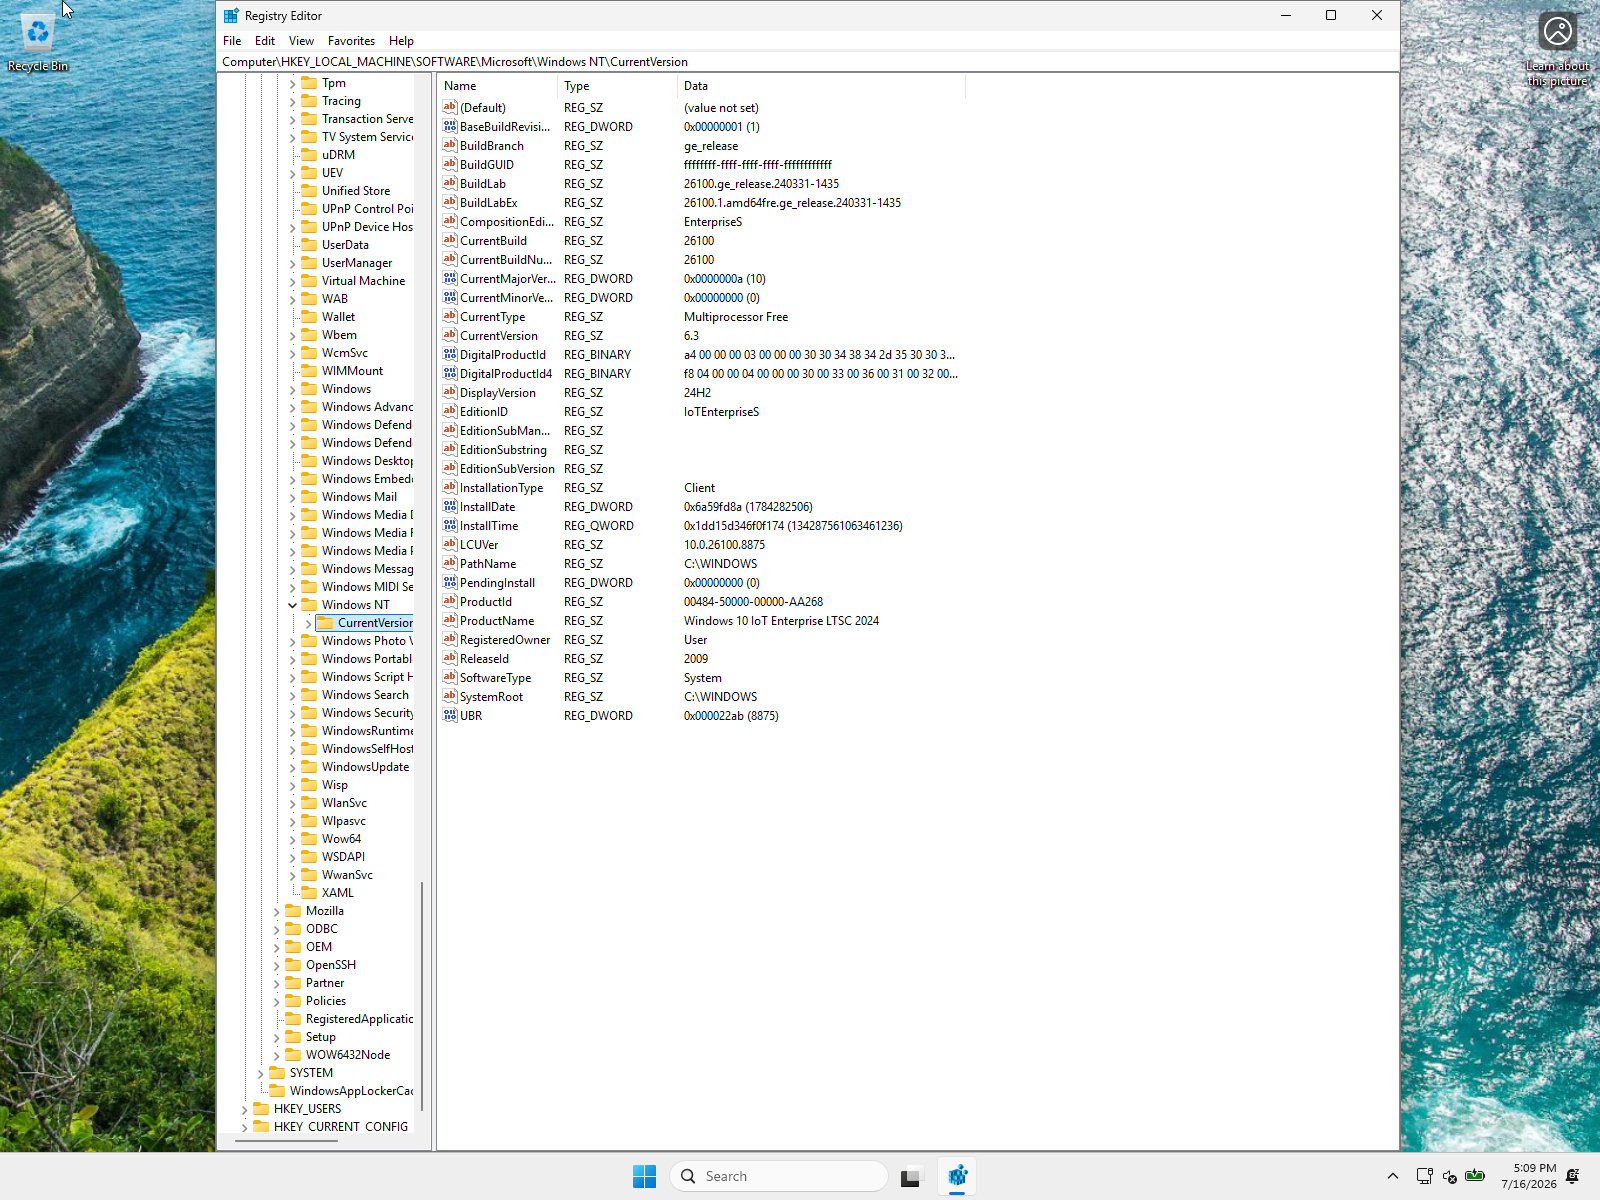
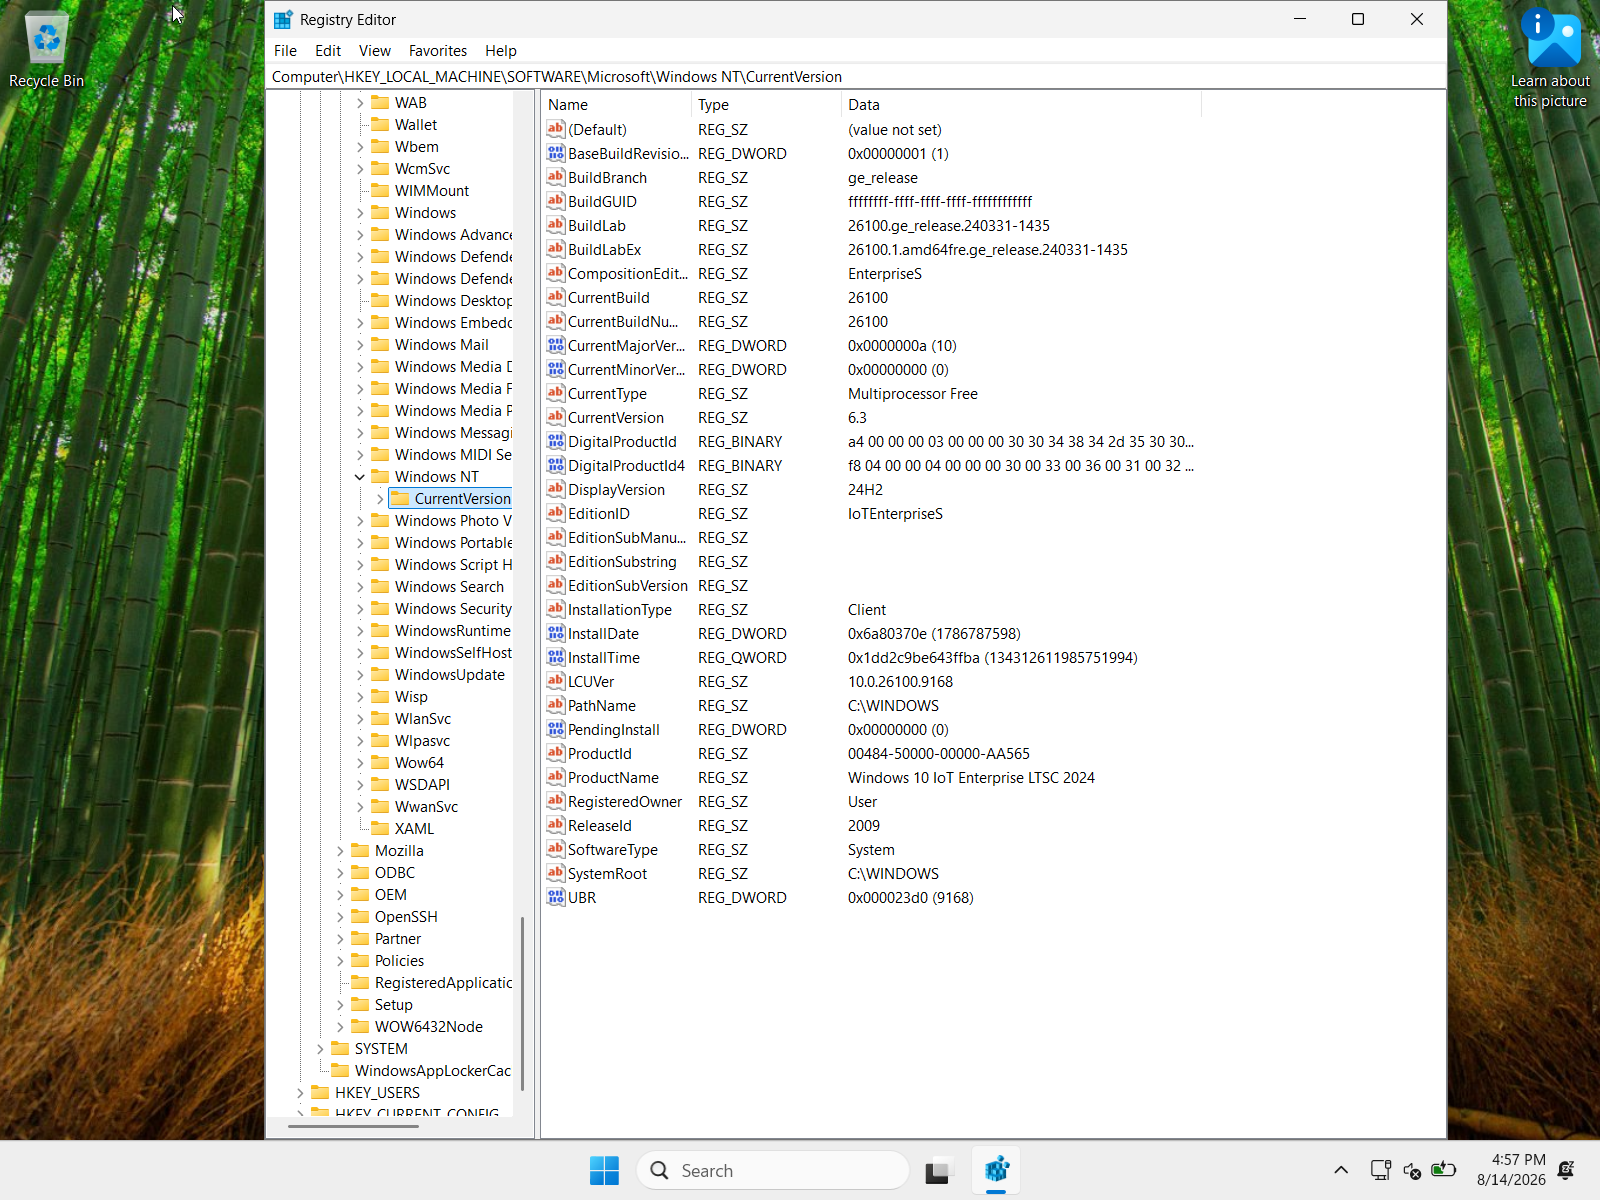
update

diff --git a/windows-11-en/index.html b/windows-11-en/index.html
@@ -53,7 +53,7 @@
             <div class="card-text"><a href="/" class="return-link"><span class="lang-en"><b>Return to Home</b></span><span class="lang-ru"><b>Вернуться на главную</b></span></a></div>
             <div class="card-text"><span class="lang-en">Language: English</span><span class="lang-ru">Язык: Английский</span></div>
             <div class="card-text"><span class="lang-en">Windows 11 IoT Enterprise LTSC (Long-Term Servicing Channel) is a lightweight version of Windows with long-term support, designed for stable performance on embedded devices and specialized systems. It excludes unnecessary apps, reducing system requirements and making it an ideal solution where reliability and minimal interference are critical.</span><span class="lang-ru">Windows 11 IoT Enterprise LTSC (Long-Term Servicing Channel) — это облегченная версия Windows с долгосрочной поддержкой, разработанная для стабильной работы на встраиваемых устройствах и специализированных системах. Она исключает ненужные приложения, снижая системные требования и делая ее идеальным решением там, где критически важны надежность и минимальное вмешательство.</span></div>
-            <div class="updated"><span class="lang-en"><b>TPM, Secure Boot, and OOBE checks are disabled,<br>Updated to 26100.8875 (July 2026) by somov</b></span><span class="lang-ru"><b>Проверки TPM, Secure Boot и OOBE отключены,<br>Обновлено до 26100.8875 (Июль 2026) by somov</b></span></div>
+            <div class="updated"><span class="lang-en"><b>TPM, Secure Boot, and OOBE checks are disabled,<br>Updated to 26100.9168 (August 2026) by somov</b></span><span class="lang-ru"><b>Проверки TPM, Secure Boot и OOBE отключены,<br>Обновлено до 26100.9168 (Август 2026) by somov</b></span></div>
             <div class="card-text"><span class="lang-en"><b>System Requirements:</b></span><span class="lang-ru"><b>Системные требования:</b></span></div>
             <div class="card-text">
               <ol class="marker-list">
@@ -66,13 +66,13 @@
             </div>
             <div class="card-text"><span class="lang-en"><b>Image checksums:</b></span><span class="lang-ru"><b>Контрольные суммы образа:</b></span></div>
             <div class="card-text">
-              <ol class="marker-list"><li><b>CRC32:</b> a35d9cfe</li>
-              <li><b>MD5:</b> 35c11701ae34564a457d077310b57b76</li>
-              <li><b>SHA-1:</b> 24098dfb4590ac0b3800664f4a924d3fd08d37e7</li>
+              <ol class="marker-list"><li><b>CRC32:</b> 24335d4b</li>
+              <li><b>MD5:</b> c9b5e8de855205c1d716c58c3cc9537a</li>
+              <li><b>SHA-1:</b> 691c9d86bfae4d7787c97906eff9a5188c0b9f07</li>
             </ol></div>
             <div class="button-container">
-            <a class="btn-windows" href="https://dl3.somov.org/en-us_windows_11_iot_enterprise_ltsc_2024_x64_26100.8875_by_somov.iso"><span class="lang-en">Download</span><span class="lang-ru">Скачать</span></a>
-            <a class="torrent-link" href="https://dl3.somov.org/en-us_windows_11_iot_enterprise_ltsc_2024_x64_26100.8875_by_somov.iso.torrent"><span class="lang-en">Download by torrent</span><span class="lang-ru">Скачать с помощью torrent</span></a>
+            <a class="btn-windows" href="https://dl3.somov.org/en-us_windows_11_iot_enterprise_ltsc_2024_x64_26100.9168_by_somov.iso"><span class="lang-en">Download</span><span class="lang-ru">Скачать</span></a>
+            <a class="torrent-link" href="https://dl3.somov.org/en-us_windows_11_iot_enterprise_ltsc_2024_x64_26100.9168_by_somov.iso.torrent"><span class="lang-en">Download by torrent</span><span class="lang-ru">Скачать с помощью torrent</span></a>
             </div>
   <div class="full-width-section">
     <div class="gallery">

diff --git a/windows-11-ru/index.html b/windows-11-ru/index.html
@@ -53,7 +53,7 @@
             <div class="card-text"><a href="/" class="return-link"><span class="lang-en"><b>Return to Home</b></span><span class="lang-ru"><b>На главную</b></span></a></div>
             <div class="card-text"><span class="lang-en">Language: Russian</span><span class="lang-ru">Язык: Русский</span></div>
             <div class="card-text"><span class="lang-en">Windows 11 IoT Enterprise LTSC (Long-Term Servicing Channel) is a lightweight version of Windows with long-term support, designed for stable performance on embedded devices and specialized systems. It excludes unnecessary apps, reducing system requirements and making it an ideal solution where reliability and minimal interference are critical.</span><span class="lang-ru">Windows 11 IoT Enterprise LTSC (Long-Term Servicing Channel) — это облегчённая версия Windows с долгосрочной поддержкой, разработанная для стабильной работы на встраиваемых устройствах и специализированных системах. Она лишена лишних приложений, что снижает системные требования и делает её идеальным решением, где важны надёжность и минимальное вмешательство.</span></div>
-            <div class="updated"><span class="lang-en"><b>TPM, Secure Boot, and OOBE checks are disabled,<br>Updated to 26100.8875 (July 2026) by somov</b></span><span class="lang-ru"><b>Проверки TPM, Secure Boot и OOBE отключены,<br>Обновлено до 26100.8875 (Июль 2026) by somov</b></span></div>
+            <div class="updated"><span class="lang-en"><b>TPM, Secure Boot, and OOBE checks are disabled,<br>Updated to 26100.9168 (August 2026) by somov</b></span><span class="lang-ru"><b>Проверки TPM, Secure Boot и OOBE отключены,<br>Обновлено до 26100.9168 (Август 2026) by somov</b></span></div>
             <div class="card-text"><span class="lang-en"><b>System Requirements:</b></span><span class="lang-ru"><b>Системные требования:</b></span></div>
             <div class="card-text">
               <ol class="marker-list">
@@ -66,13 +66,13 @@
             </div>
             <div class="card-text"><span class="lang-en"><b>Image checksums:</b></span><span class="lang-ru"><b>Контрольные суммы:</b></span></div>
             <div class="card-text">
-              <ol class="marker-list"><li><b>CRC32:</b> bbba3103</li>
-              <li><b>MD5:</b> e1557092e3f13822065e037aedc8df97</li>
-              <li><b>SHA-1:</b> baa398c30409596653a59ac144f88405b6879706</li>
+              <ol class="marker-list"><li><b>CRC32:</b> 1c66a2d8</li>
+              <li><b>MD5:</b> c7e1d6f4813e808efa3c6971ce0d1111</li>
+              <li><b>SHA-1:</b> a452f6b394cdcc06074b83221ec887b4580db651</li>
             </ol></div>
             <div class="button-container">
-            <a class="btn-windows" href="https://dl3.somov.org/ru-ru_windows_11_iot_enterprise_ltsc_2024_x64_26100.8875_by_somov.iso"><span class="lang-en">Download</span><span class="lang-ru">Скачать</span></a>
-            <a class="torrent-link" href="https://dl3.somov.org/ru-ru_windows_11_iot_enterprise_ltsc_2024_x64_26100.8875_by_somov.iso.torrent"><span class="lang-en">Download by torrent</span><span class="lang-ru">Скачать с помощью torrent</span></a>
+            <a class="btn-windows" href="https://dl3.somov.org/ru-ru_windows_11_iot_enterprise_ltsc_2024_x64_26100.9168_by_somov.iso"><span class="lang-en">Download</span><span class="lang-ru">Скачать</span></a>
+            <a class="torrent-link" href="https://dl3.somov.org/ru-ru_windows_11_iot_enterprise_ltsc_2024_x64_26100.9168_by_somov.iso.torrent"><span class="lang-en">Download by torrent</span><span class="lang-ru">Скачать с помощью torrent</span></a>
             </div>
   <div class="full-width-section">
     <div class="gallery">

diff --git a/index.html b/index.html
@@ -66,7 +66,7 @@
             </a>
             <div class="card-details">
               <span class="lang-en">Language: English<br></span><span class="lang-ru">Язык: Английский<br></span>
-              <span class="lang-en">Update: 26100.8875 (July 2026)<br></span><span class="lang-ru">Обновление: 26100.8875 (Июль 2026)<br></span>
+              <span class="lang-en">Update: 26100.9168 (August 2026)<br></span><span class="lang-ru">Обновление: 26100.9168 (Август 2026)<br></span>
               <span class="lang-en">Edition: IoT Enterprise LTSC<br></span><span class="lang-ru">Издание: IoT Enterprise LTSC<br></span>
               <span class="lang-en">Version: 24H2<br></span><span class="lang-ru">Версия: 24H2<br></span>
               <span class="lang-en">Author: somov<br></span><span class="lang-ru">Автор: somov<br></span>
@@ -79,8 +79,8 @@
         </div>
         <div class="card-right">
           <div class="card-actions">
-            <a class="btn" href="https://dl3.somov.org/en-us_windows_11_iot_enterprise_ltsc_2024_x64_26100.8875_by_somov.iso"><span class="lang-en">Download</span><span class="lang-ru">Скачать</span></a>
-            <a class="torrent-link" href="https://dl3.somov.org/en-us_windows_11_iot_enterprise_ltsc_2024_x64_26100.8875_by_somov.iso.torrent"><span class="lang-en">Download by torrent</span><span class="lang-ru">Скачать с помощью torrent</span></a>
+            <a class="btn" href="https://dl3.somov.org/en-us_windows_11_iot_enterprise_ltsc_2024_x64_26100.9168_by_somov.iso"><span class="lang-en">Download</span><span class="lang-ru">Скачать</span></a>
+            <a class="torrent-link" href="https://dl3.somov.org/en-us_windows_11_iot_enterprise_ltsc_2024_x64_26100.9168_by_somov.iso.torrent"><span class="lang-en">Download by torrent</span><span class="lang-ru">Скачать с помощью torrent</span></a>
           </div>
         </div>
       </section>
@@ -133,7 +133,7 @@
             </a>
             <div class="card-details">
               <span class="lang-en">Language: Russian<br></span><span class="lang-ru">Язык: Русский<br></span>
-              <span class="lang-en">Update: 26100.8875 (July 2026)<br></span><span class="lang-ru">Обновление: 26100.8875 (Июль 2026)<br></span>
+              <span class="lang-en">Update: 26100.9168 (August 2026)<br></span><span class="lang-ru">Обновление: 26100.9168 (Август 2026)<br></span>
               <span class="lang-en">Edition: IoT Enterprise LTSC<br></span><span class="lang-ru">Издание: IoT Enterprise LTSC<br></span>
               <span class="lang-en">Version: 24H2<br></span><span class="lang-ru">Версия: 24H2<br></span>
               <span class="lang-en">Author: somov<br></span><span class="lang-ru">Автор: somov<br></span>
@@ -146,8 +146,8 @@
         </div>
         <div class="card-right">
           <div class="card-actions">
-            <a class="btn" href="https://dl3.somov.org/ru-ru_windows_11_iot_enterprise_ltsc_2024_x64_26100.8875_by_somov.iso"><span class="lang-en">Download</span><span class="lang-ru">Скачать</span></a>
-            <a class="torrent-link" href="https://dl3.somov.org/ru-ru_windows_11_iot_enterprise_ltsc_2024_x64_26100.8875_by_somov.iso.torrent"><span class="lang-en">Download by torrent</span><span class="lang-ru">Скачать с помощью torrent</span></a>
+            <a class="btn" href="https://dl3.somov.org/ru-ru_windows_11_iot_enterprise_ltsc_2024_x64_26100.9168_by_somov.iso"><span class="lang-en">Download</span><span class="lang-ru">Скачать</span></a>
+            <a class="torrent-link" href="https://dl3.somov.org/ru-ru_windows_11_iot_enterprise_ltsc_2024_x64_26100.9168_by_somov.iso.torrent"><span class="lang-en">Download by torrent</span><span class="lang-ru">Скачать с помощью torrent</span></a>
           </div>
         </div>
       </section>
